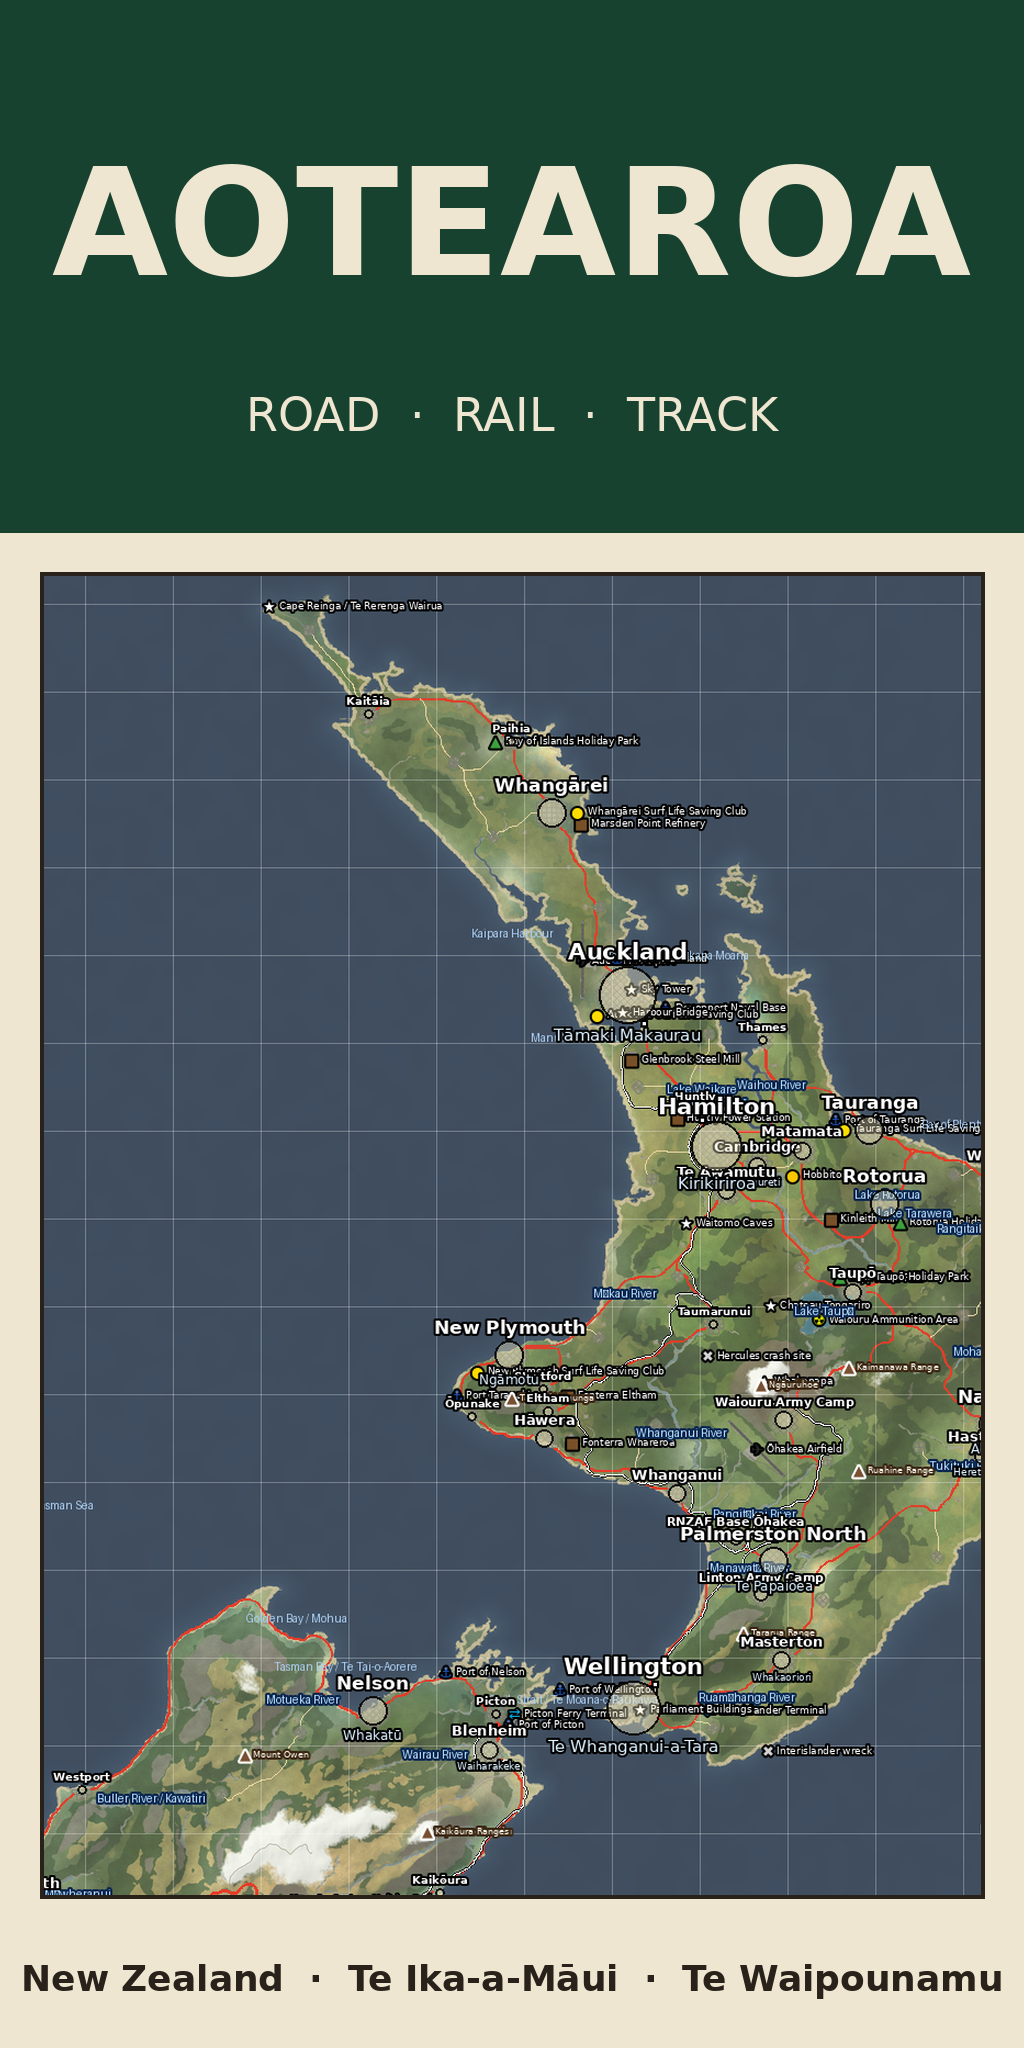
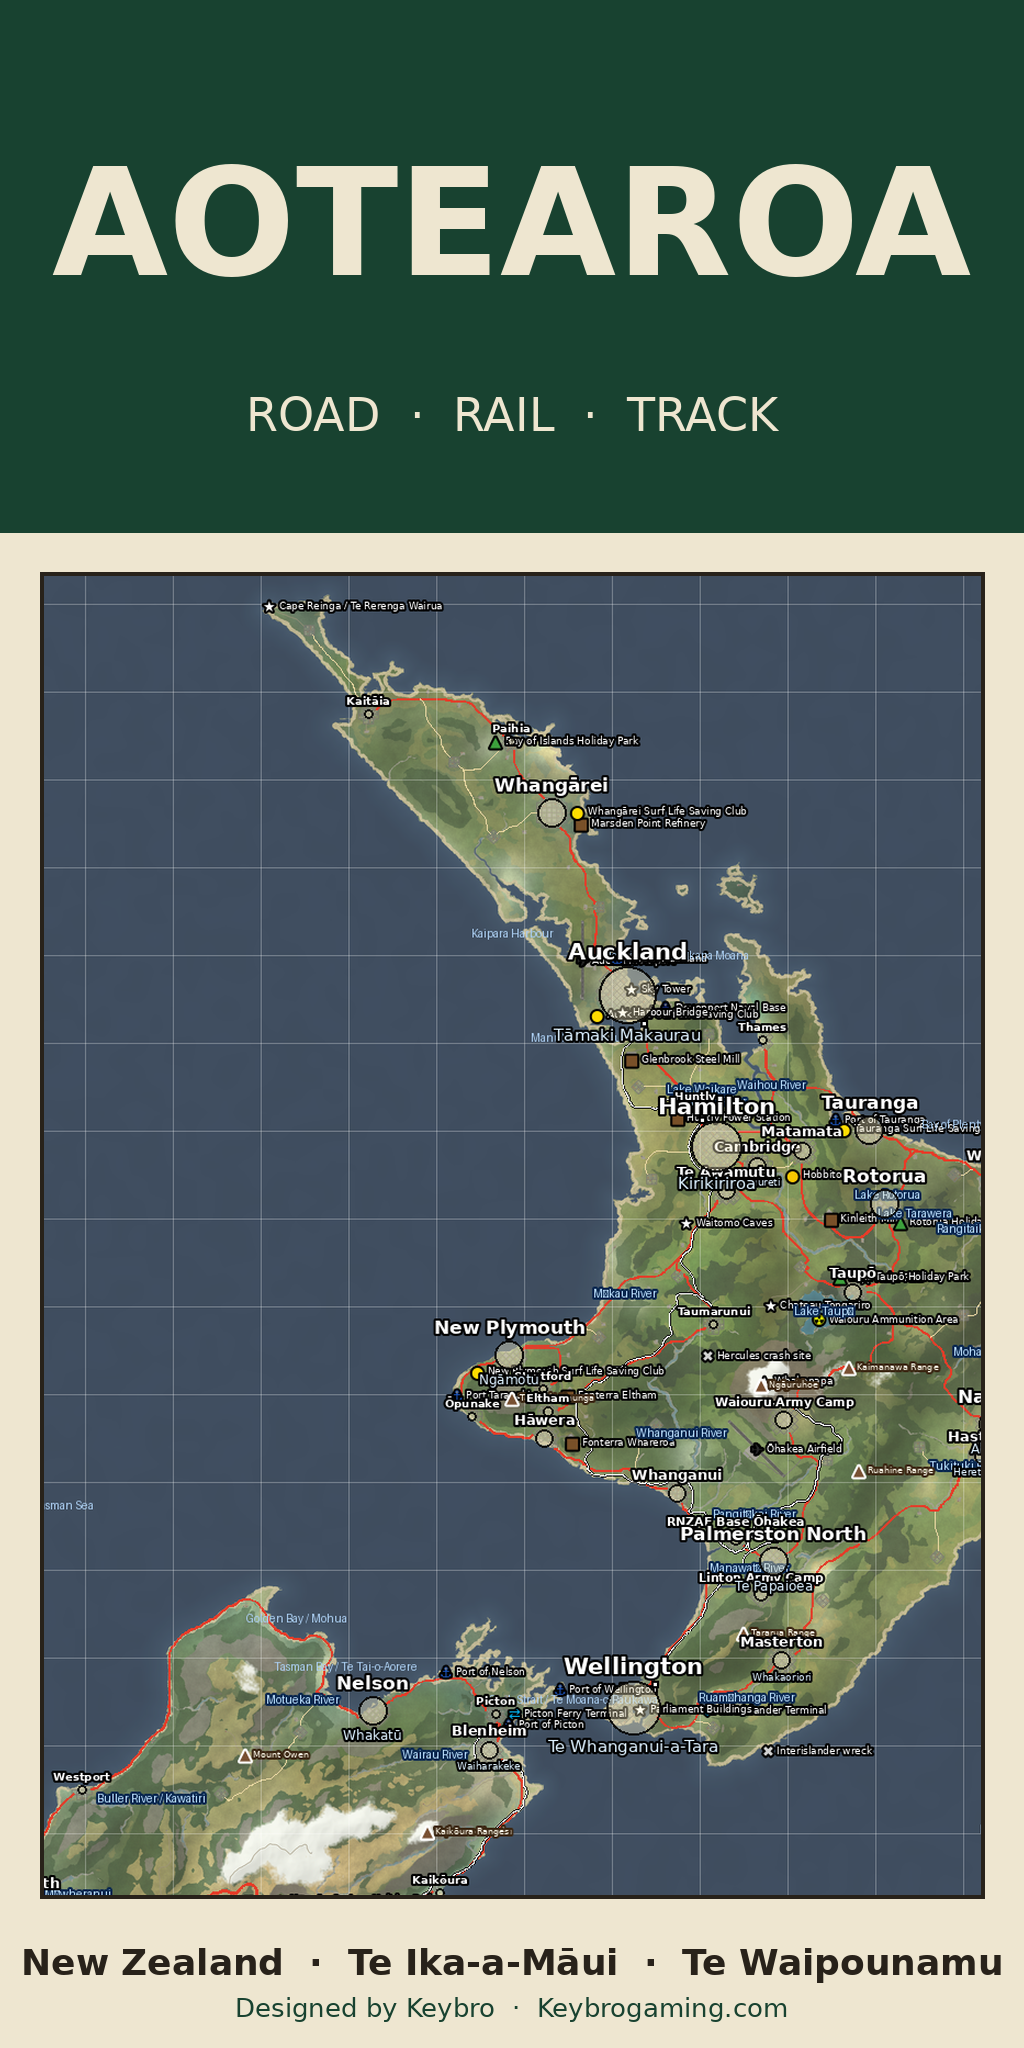
Designed by Keybro and Keybrogaming.com watermarks on the loading screens, map picture, player map and map item

Changed region(s): [[0.0312, 0.9375, 0.9688, 1.0]]

diff --git a/tools/watermark.py b/tools/watermark.py
@@ -1,0 +1,43 @@
+"""The Keybro credit stamped on the mod's images: loading screens, map picture, player map and map item."""
+
+from __future__ import annotations
+
+from PIL import Image, ImageDraw, ImageFont
+
+CREDIT = "Designed by Keybro"
+SITE = "Keybrogaming.com"
+FONT = "/usr/share/fonts/truetype/dejavu/DejaVuSans.ttf"
+FONT_BOLD = "/usr/share/fonts/truetype/dejavu/DejaVuSans-Bold.ttf"
+
+
+def _font(path: str, size: int) -> ImageFont.ImageFont:
+    try:
+        return ImageFont.truetype(path, max(8, size))
+    except OSError:
+        return ImageFont.load_default()
+
+
+def stamp(img: Image.Image, lines: list[str], height: float, corner: str = "br", margin: float | None = None,
+          opacity: int = 170) -> Image.Image:
+    """Semi-transparent white text with a dark outline in one corner; the first line is bold.
+
+    height is the first line's text size in pixels; corner is "br", "bl", "tr" or "tl".
+    """
+    base = img.convert("RGBA")
+    layer = Image.new("RGBA", base.size, (0, 0, 0, 0))
+    d = ImageDraw.Draw(layer)
+    margin = height * 0.9 if margin is None else margin
+    fonts = [_font(FONT_BOLD, int(height))] + [_font(FONT, int(height * 0.72))] * (len(lines) - 1)
+    gap = height * 0.25
+    sizes = [d.textbbox((0, 0), t, font=f) for t, f in zip(lines, fonts)]
+    total = sum(b[3] - b[1] for b in sizes) + gap * (len(lines) - 1)
+    right, bottom = corner[1] == "r", corner[0] == "b"
+    y = base.size[1] - margin - total if bottom else margin
+    stroke = max(1, int(height / 14))
+    for text, f, b in zip(lines, fonts, sizes):
+        x = base.size[0] - margin if right else margin
+        d.text((x, y - b[1]), text, font=f, anchor="ra" if right else "la", fill=(255, 255, 255, opacity),
+               stroke_width=stroke, stroke_fill=(0, 0, 0, int(opacity * 0.8)))
+        y += b[3] - b[1] + gap
+    out = Image.alpha_composite(base, layer)
+    return out if img.mode == "RGBA" else out.convert(img.mode)

diff --git a/tools/make_branding.py b/tools/make_branding.py
@@ -3,8 +3,8 @@
     python make_branding.py
 
 Writes data/branding/: logo_512.png, icon_128.png, icon_64.png (with alpha), loading_1.jpg and
-loading_2.jpg (2048 x 1024, logo and strapline added) and map_picture.jpg (the satellite preview
-with the logo). Convert them to .paa with ImageToPAA from DayZ Tools; see the README.
+loading_2.jpg (2048 x 1024, logo, strapline and the "Designed by Keybro" / Keybrogaming.com
+watermark added) and map_picture.jpg (the satellite preview with the logo and Keybrogaming.com). Convert them to .paa with ImageToPAA from DayZ Tools; see the README.
 """
 
 from __future__ import annotations
@@ -12,6 +12,8 @@ from __future__ import annotations
 from pathlib import Path
 
 from PIL import Image, ImageDraw, ImageFilter, ImageFont
+
+import watermark
 
 MAP_DIR = Path(__file__).resolve().parents[1]
 OUT = MAP_DIR / "data" / "branding"
@@ -39,11 +41,13 @@ def main() -> None:
         im.paste(badge, (60, 1024 - 360), badge)
         ImageDraw.Draw(im).text((380, 1024 - 200), STRAPLINE, font=font, fill=(235, 232, 220),
                                 stroke_width=2, stroke_fill=(0, 0, 0))
+        im = watermark.stamp(im, [watermark.CREDIT, watermark.SITE], 46, margin=56)
         im.save(OUT / art.name, quality=90)
 
     sat = Image.open(MAP_DIR / "preview" / "satellite_2048.png").convert("RGB").resize((1024, 1024), Image.LANCZOS)
     badge = logo.resize((220, 220), Image.LANCZOS)
     sat.paste(badge, (1024 - 240, 20), badge)
+    sat = watermark.stamp(sat, [watermark.SITE], 26)
     sat.save(OUT / "map_picture.jpg", quality=88)
     print(f"Wrote {OUT}")
 

diff --git a/tools/build_map_item.py b/tools/build_map_item.py
@@ -23,6 +23,7 @@ from pathlib import Path
 from PIL import Image, ImageDraw
 
 import build_player_map as pm
+import watermark
 
 MAP_DIR = Path(__file__).resolve().parents[1]
 OUT = MAP_DIR / "mapitem" / "data"
@@ -124,6 +125,8 @@ def legend(w: int, h: int, size_m: float) -> Image.Image:
             end = right - d.textlength(ref, font=body) - 6 * u
             if end > start:
                 d.line([(start, yy + line_h * 0.62), (end, yy + line_h * 0.62)], fill=(170, 160, 140), width=1)
+    d.text((w / 2, h - 18 * u), f"{watermark.CREDIT}  ·  {watermark.SITE}", font=pm.font(pm.FONT, int(16 * u)),
+           anchor="mm", fill=GREEN)
     return img
 
 
@@ -146,8 +149,10 @@ def closed(w: int, h: int, sheet: Image.Image) -> Image.Image:
     crop = sheet.crop((cx - cw // 2, cy - ch // 2, cx + cw // 2, cy + ch // 2)).resize((box_w, box_h), Image.LANCZOS)
     img.paste(crop, (margin, band + margin))
     d.rectangle([margin, band + margin, margin + box_w, band + margin + box_h], outline=INK, width=max(2, int(4 * u)))
-    d.text((w / 2, h - int(70 * u)), "New Zealand  ·  Te Ika-a-Māui  ·  Te Waipounamu",
+    d.text((w / 2, h - int(86 * u)), "New Zealand  ·  Te Ika-a-Māui  ·  Te Waipounamu",
            font=pm.font(pm.FONT_BOLD, int(36 * u)), anchor="mm", fill=INK)
+    d.text((w / 2, h - int(40 * u)), f"{watermark.CREDIT}  ·  {watermark.SITE}",
+           font=pm.font(pm.FONT, int(26 * u)), anchor="mm", fill=GREEN)
     return img
 
 

diff --git a/tools/build_player_map.py b/tools/build_player_map.py
@@ -16,6 +16,8 @@ from pathlib import Path
 
 from PIL import Image, ImageDraw, ImageFont
 
+import watermark
+
 MAP_DIR = Path(__file__).resolve().parents[1]
 SOURCE = MAP_DIR / "source"
 PREVIEW = MAP_DIR / "preview"
@@ -158,6 +160,8 @@ def render(satellite: Image.Image, size: int, text_scale: float = 1.0, legend: b
             d.text((x, y + r + 2 * s), t["maori"], font=f2, anchor="ma", fill=(220, 240, 255, 235),
                    stroke_width=2, stroke_fill=(0, 0, 0, 230))
 
+    img = watermark.stamp(img, [watermark.CREDIT, watermark.SITE], 30 * s, opacity=150)
+    d = ImageDraw.Draw(img, "RGBA")
     if not legend:
         return img
     # Title, legend and scale bar in the empty Tasman Sea.

diff --git a/mapitem/mod.cpp b/mapitem/mod.cpp
@@ -1,7 +1,7 @@
 name = "Map of Aotearoa";
 author = "KeybroAU";
 version = "0.6.0";
-overview = "Adds AotearoaMap, a paper map item of the Aotearoa terrain with every town and landmark listed. Load with @Aotearoa on client and server.";
+overview = "Adds AotearoaMap, a paper map item of the Aotearoa terrain with every town and landmark listed. Load with @Aotearoa on client and server. Designed by Keybro, Keybrogaming.com";
 picture = "aotearoa_map\data\aotearoa_map_closed_co.paa";
 tooltip = "Map of Aotearoa";
 action = "https://github.com/KeybroAU/aotearoa-dayz-map";

diff --git a/mod/mod.cpp b/mod/mod.cpp
@@ -1,7 +1,7 @@
 name = "Aotearoa";
 author = "KeybroAU";
 version = "0.6.0";
-overview = "A 25.6 km terrain shaped on New Zealand, with bilingual place names, volcanoes, the Interislander and the main trunk railway.";
+overview = "A 25.6 km terrain shaped on New Zealand, with bilingual place names, volcanoes, the Interislander and the main trunk railway. Designed by Keybro, Keybrogaming.com";
 picture = "maps\aotearoa\data\branding\logo_512_ca.paa";
 logo = "maps\aotearoa\data\branding\icon_128_ca.paa";
 logoSmall = "maps\aotearoa\data\branding\icon_64_ca.paa";

diff --git a/README.md b/README.md
@@ -1,5 +1,7 @@
 # Aotearoa (DayZ terrain)
 
+Designed by Keybro, [Keybrogaming.com](https://keybrogaming.com).
+
 A 25.6 km DayZ terrain based on New Zealand, for a new server. The coastline and the big landforms come from real elevation data, so you can pick out the Southern Alps, Fiordland, the Canterbury Plains, Banks Peninsula, the central volcanic plateau with Ruapehu, Ngauruhoe and Tongariro, Mt Taranaki and Stewart Island. On top of that the repo generates:
 
 - 51 towns and bases with bilingual labels, plus 45 small hamlets in the countryside
@@ -12,7 +14,7 @@ A 25.6 km DayZ terrain based on New Zealand, for a new server. The coastline and
 - forests, hedgerows, farm fences and rocks; street lamps, bus stops, back fences, garden trees and abandoned cars
 - a satellite texture coloured from a real satellite photo
 - the server mission files: spawns, loot positions and tiers, New Zealand loot changes, animals, weather, starting gear, server messages and launch scripts
-- a printable player map, a logo and loading screens, and map checks that run on GitHub
+- a printable player map, a logo and loading screens, and map checks that run on GitHub. The loading screens, map picture, player map and map item carry a "Designed by Keybro" and Keybrogaming.com watermark (`tools/watermark.py`)
 
 ![Satellite](preview/satellite_2048.png)
 
